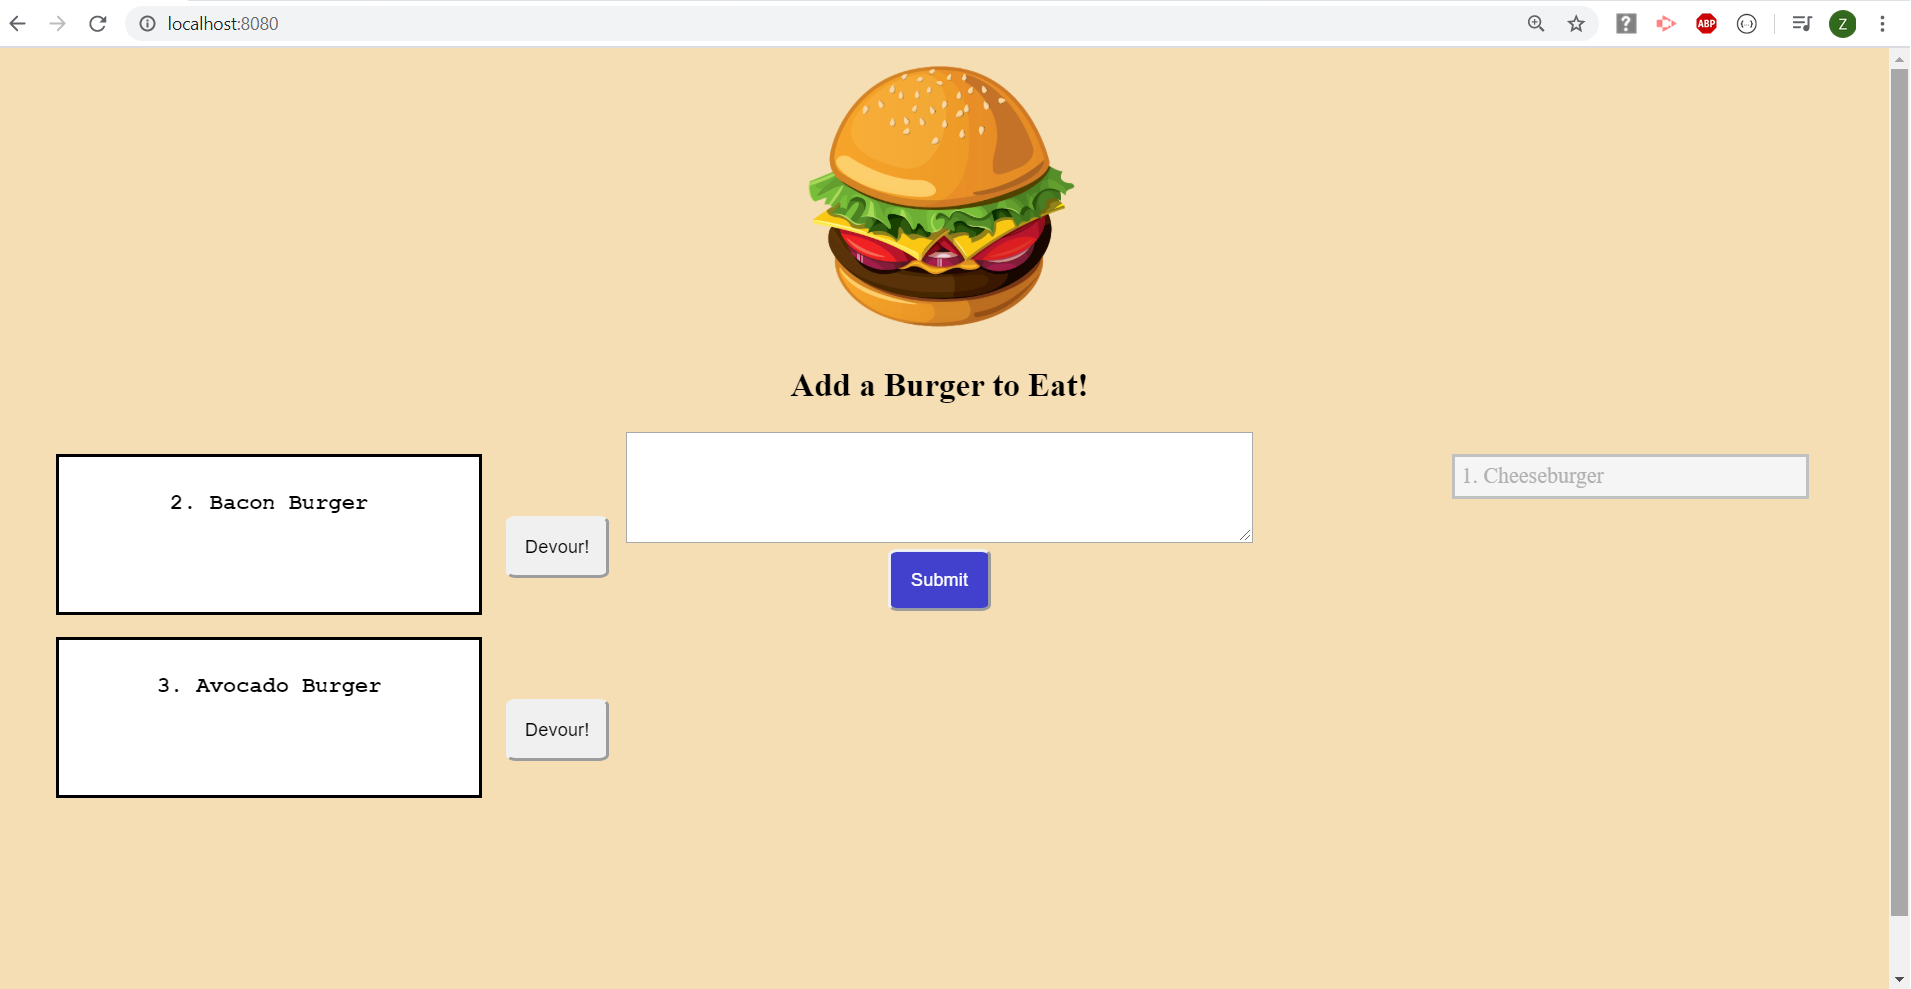
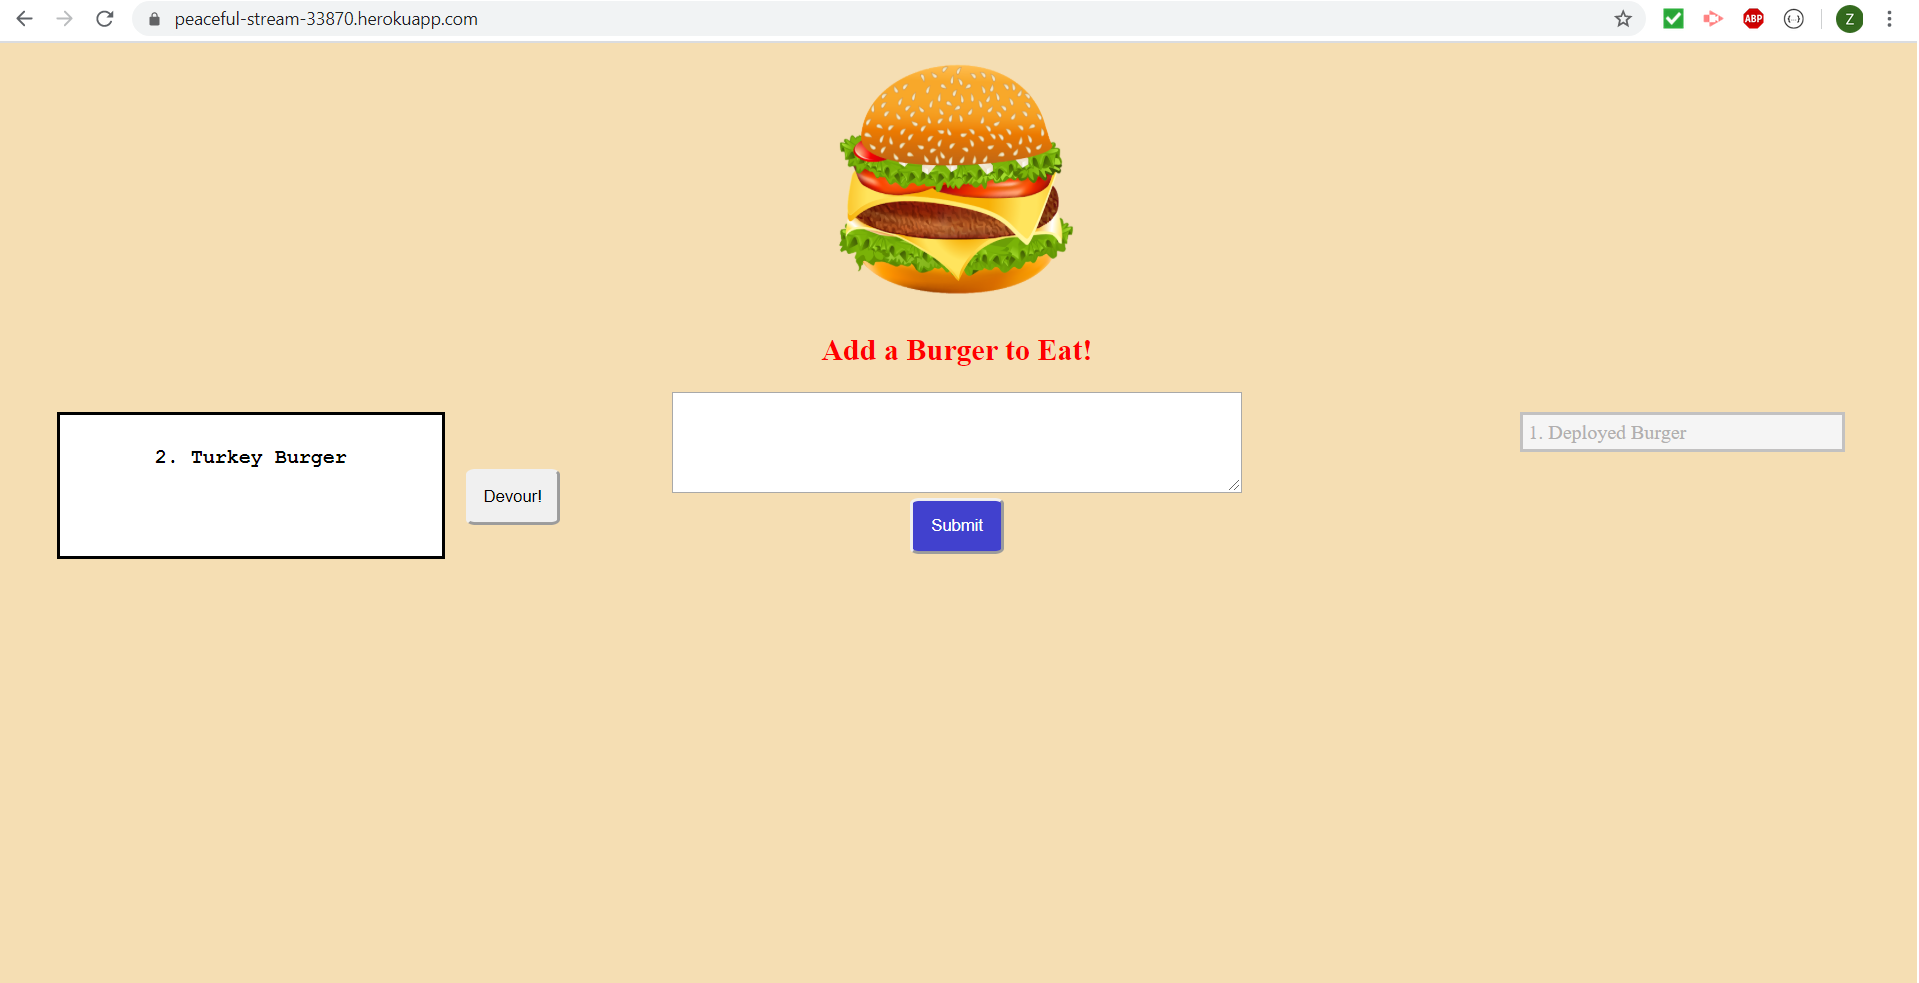
Read me and other edits made

Changed region(s): [[0.0, 0.0, 1.0, 1.0]]

diff --git a/README.md b/README.md
@@ -1,2 +1,7 @@
 # Eat-The-Burger
 A simple app combining newly developed skills in MySQL, Node, Express and Handlebars.
+
+
+## Deployed App:
+
+![Screenshot of the running app](./assets/img/screenshot.png)
